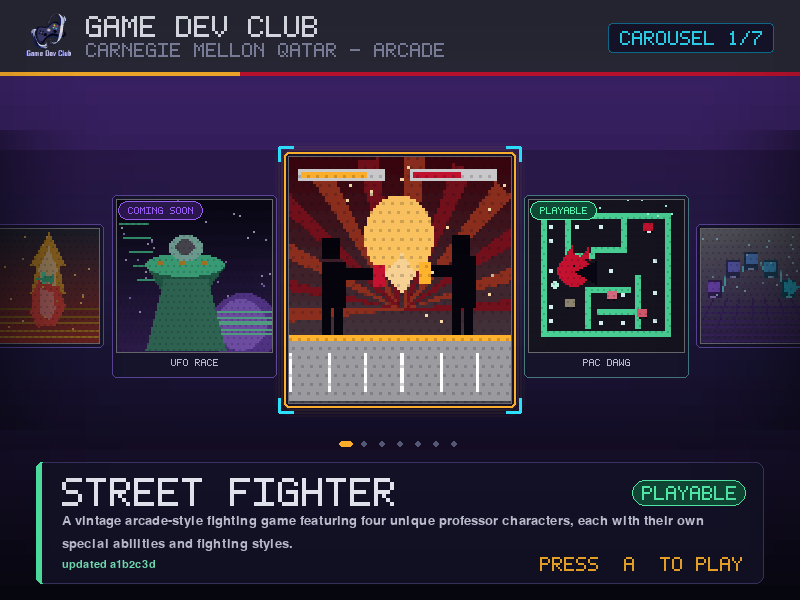
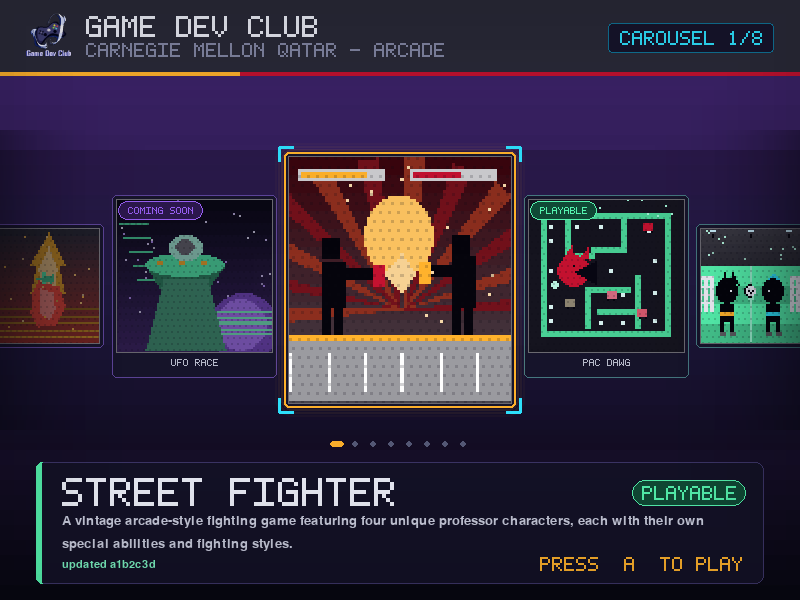
feat(games): add Head Scotter as the eighth catalogued game
Add the head-soccer game HeadScotter to data/games.json as a launchable
entry, alongside a new procedural 'pitch' card-art motif registered in
launcher/ui/art.py and launcher/manifest.py: goals at both ends, a
ball, and two dark-silhouette big-headed rivals with a single jersey
accent stripe each, so the identity reads clearly at every card size
instead of blending into the grass. Both rivals share the same planted,
two-legged stance, since an earlier kicking pose read as a detached
slab rather than a limb at the sizes these cards actually render at.
Update tests that pinned the manifest at seven games/two launchable,
extend grid/carousel/cover-flow parity tests to cover eight games,
refresh the README and regenerate the four documentation screenshots.

Changed region(s): [[0.875, 0.36, 1.0, 0.6], [0.4062, 0.72, 0.5938, 0.75], [0.9375, 0.06, 0.9688, 0.09]]

diff --git a/launcher/ui/art.py b/launcher/ui/art.py
@@ -464,6 +464,135 @@ def _motif_maze(surface: pygame.Surface, colors: tuple[Color, Color, Color], rng
     _speckle(surface, rng, mix(primary, PALETTE["bone"], 0.5), 10, ceiling=0.12)
 
 
+def _motif_pitch(surface: pygame.Surface, colors: tuple[Color, Color, Color], rng: random.Random) -> None:
+    """A head-soccer pitch: goals at both ends, a ball and two big-headed
+    rivals squaring off -- Head Scotter.
+
+    The characters are dark silhouettes (the same high-contrast trick
+    ``_motif_duel`` uses for its fighters) rather than tints of *primary* or
+    *secondary* mixed toward ``bone`` -- *primary* is already spent on the
+    grass here, so a pale mix of the other two reads as a washed-out blob
+    sitting on a background of a similar value. A near-black silhouette pops
+    against the pitch regardless of which two colours a manifest entry picks,
+    and a single accent stripe per jersey is enough to tell the two sides
+    apart.
+    """
+    primary, secondary, dark = colors
+    body = shade(dark, 0.55)
+
+    # Night-match sky with a few floodlights.
+    _sky(surface, shade(dark, 1.2), shade(dark, 0.8))
+    for light_x in (0.14, 0.5, 0.86):
+        _rect(surface, light_x - 0.03, 0.03, 0.06, 0.022, mix(PALETTE["bone"], secondary, 0.2))
+        _rect(surface, light_x - 0.006, 0.052, 0.012, 0.05, shade(dark, 0.7))
+
+    # Grass, mowed into a few bold bands -- fewer, thicker stripes than a
+    # dense set of thin ones, which is what actually reads at card scale.
+    field_top = 0.34
+    band = (1.0 - field_top) / 4.0
+    for index in range(4):
+        tone = primary if index % 2 == 0 else shade(primary, 0.82)
+        _rect(surface, 0.0, field_top + index * band, 1.0, band + 0.01, tone)
+
+    # Halfway line and centre spot.
+    line = mix(PALETTE["bone"], primary, 0.55)
+    _rect(surface, 0.485, field_top, 0.03, 1.0 - field_top, line)
+    _ellipse(surface, 0.465, 0.585, 0.07, 0.07, line)
+
+    def _goal(near_x: float, direction: int) -> None:
+        """Posts, crossbar and net opening onto the field from the edge."""
+        post = PALETTE["bone"]
+        far_x = near_x + direction * 0.12
+        _rect(surface, near_x, 0.42, 0.02, 0.32, post)
+        _rect(surface, far_x, 0.42, 0.02, 0.32, post)
+        _rect(surface, min(near_x, far_x), 0.42, 0.14, 0.02, post)
+        net = shade(post, 1.15)
+        for i in range(3):
+            nx = near_x + direction * (0.03 + i * 0.03)
+            _line(surface, (nx, 0.44), (nx, 0.71), net)
+        for j in range(4):
+            ny = 0.44 + j * 0.07
+            _line(surface, (near_x, ny), (far_x, ny), net)
+
+    _goal(0.01, direction=1)
+    _goal(0.99, direction=-1)
+
+    def _player(head_x: float, accent: Color, ears: bool) -> None:
+        """One big-headed rival: dark silhouette, single accent stripe."""
+        head_y = 0.56
+        radius = 0.115
+        facing = 1 if head_x < 0.5 else -1
+
+        if ears:
+            # Two upright terrier ears, same silhouette colour as the head
+            # so they read as part of one continuous shape.
+            _polygon(
+                surface,
+                [
+                    (head_x - radius * 0.75, head_y - radius * 0.65),
+                    (head_x - radius * 0.30, head_y - radius * 1.55),
+                    (head_x - radius * 0.05, head_y - radius * 0.75),
+                ],
+                body,
+            )
+            _polygon(
+                surface,
+                [
+                    (head_x + radius * 0.75, head_y - radius * 0.65),
+                    (head_x + radius * 0.30, head_y - radius * 1.55),
+                    (head_x + radius * 0.05, head_y - radius * 0.75),
+                ],
+                body,
+            )
+        else:
+            # A rounded mohawk band marks the rival's head instead of ears.
+            _ellipse(
+                surface,
+                head_x - radius * 0.55,
+                head_y - radius * 1.35,
+                radius * 1.1,
+                radius * 0.9,
+                accent,
+            )
+
+        _ellipse(surface, head_x - radius, head_y - radius, radius * 2, radius * 2, body)
+        eye_x = head_x + facing * radius * 0.35
+        _rect(surface, eye_x - 0.014, head_y - 0.02, 0.028, 0.028, PALETTE["bone"])
+
+        # Torso: attaches directly under the head (no gap), with one accent
+        # stripe so the two sides are distinguishable at a glance.
+        torso_top = head_y + radius - 0.01
+        _rect(surface, head_x - 0.075, torso_top, 0.15, 0.16, body)
+        _rect(surface, head_x - 0.075, torso_top + 0.06, 0.15, 0.035, accent)
+
+        # An even, planted stance -- two short legs, two boot blocks, both
+        # sides identical. A kicking pose was tried here first: an extended
+        # leg reaching toward the ball, but at the sizes these cards actually
+        # render at, its length and near-uniform thickness left it reading
+        # as a detached slab rather than a limb. The ball sitting between
+        # the two players already carries the action; the stance does not
+        # need to.
+        legs_top = torso_top + 0.16 - 0.01
+        _rect(surface, head_x - 0.075, legs_top, 0.05, 0.11, body)
+        _rect(surface, head_x + 0.025, legs_top, 0.05, 0.11, body)
+        _rect(surface, head_x - 0.08, legs_top + 0.09, 0.06, 0.04, shade(body, 1.35))
+        _rect(surface, head_x + 0.02, legs_top + 0.09, 0.06, 0.04, shade(body, 1.35))
+
+    _player(0.28, PALETTE["warm_amber"], ears=True)
+    _player(0.72, secondary, ears=False)
+
+    # The ball, lifted just off the ground between the two heads so it reads
+    # as airborne, with a dark ring so it pops against the pitch regardless
+    # of what falls behind it.
+    ball_x, ball_y = 0.5, 0.56
+    _ellipse(surface, ball_x - 0.065, ball_y - 0.065, 0.13, 0.13, shade(dark, 0.5))
+    _ellipse(surface, ball_x - 0.05, ball_y - 0.05, 0.10, 0.10, PALETTE["bone"])
+    for dx, dy in ((-0.012, -0.01), (0.014, -0.006), (0.0, 0.016)):
+        _rect(surface, ball_x + dx - 0.008, ball_y + dy - 0.008, 0.016, 0.016, shade(dark, 0.6))
+
+    _speckle(surface, rng, mix(PALETTE["bone"], primary, 0.4), 14, ceiling=field_top)
+
+
 MOTIF_RENDERERS = {
     "duel": _motif_duel,
     "relay": _motif_relay,
@@ -472,6 +601,7 @@ MOTIF_RENDERERS = {
     "ember": _motif_ember,
     "orbit": _motif_orbit,
     "maze": _motif_maze,
+    "pitch": _motif_pitch,
 }
 
 

diff --git a/tests/test_views.py b/tests/test_views.py
@@ -355,10 +355,10 @@ class GridScrollTests(unittest.TestCase):
     real grid always needed both axes anyway.
     """
 
-    COUNTS = (1, 2, 6, 7, 9, 10, 11, 12, 20)
+    COUNTS = (1, 2, 6, 7, 8, 9, 10, 11, 12, 20)
 
     def test_no_scroll_needed_when_everything_fits(self) -> None:
-        for count in (1, 2, 3, 6, 7, 9):
+        for count in (1, 2, 3, 6, 7, 8, 9):
             for index in range(count):
                 with self.subTest(count=count, index=index):
                     self.assertEqual(grid.target_scroll(index, count), 0.0)
@@ -470,7 +470,7 @@ class GridRenderingTests(HeadlessCase):
     card on screen, and never more than three rows of it visible at once.
     """
 
-    COUNTS = (1, 2, 3, 6, 7, 9, 10, 12, 20)
+    COUNTS = (1, 2, 3, 6, 7, 8, 9, 10, 12, 20)
 
     @staticmethod
     def _content_rect() -> pygame.Rect:
@@ -765,7 +765,7 @@ class CoverFlowSymmetryTests(unittest.TestCase):
     cutoff was crossed).
     """
 
-    COUNTS = (1, 2, 3, 4, 5, 6, 7, 12, 20)
+    COUNTS = (1, 2, 3, 4, 5, 6, 7, 8, 12, 20)
 
     def test_left_and_right_counts_are_equal_at_rest(self) -> None:
         """The steady-state fan -- what the visitor actually looks at -- must
@@ -839,7 +839,7 @@ class CoverFlowSymmetryTests(unittest.TestCase):
 class CarouselFadeTests(unittest.TestCase):
     """The same pop/symmetry fix, applied to Carousel's neighbours."""
 
-    COUNTS = (1, 2, 3, 4, 5, 6, 7, 12, 20)
+    COUNTS = (1, 2, 3, 4, 5, 6, 7, 8, 12, 20)
 
     def test_left_and_right_counts_are_equal_at_rest(self) -> None:
         for count in self.COUNTS:

diff --git a/tests/test_manifest.py b/tests/test_manifest.py
@@ -38,17 +38,18 @@ class ShippedManifestTests(unittest.TestCase):
     def test_shipped_manifest_loads(self) -> None:
         manifest = load_manifest(MANIFEST_FILE)
         self.assertEqual(manifest.version, SUPPORTED_MANIFEST_VERSION)
-        self.assertEqual(len(manifest), 7)
+        self.assertEqual(len(manifest), 8)
 
     def test_shipped_manifest_has_unique_ids(self) -> None:
         manifest = load_manifest(MANIFEST_FILE)
         ids = [game.id for game in manifest]
         self.assertEqual(len(ids), len(set(ids)))
 
-    def test_only_streetfighter_and_pacdawg_are_launchable(self) -> None:
+    def test_only_streetfighter_pacdawg_and_headscotter_are_launchable(self) -> None:
         manifest = load_manifest(MANIFEST_FILE)
         self.assertEqual(
-            [game.id for game in manifest.launchable], ["streetfighter", "pacdawg"]
+            [game.id for game in manifest.launchable],
+            ["streetfighter", "pacdawg", "headscotter"],
         )
 
     def test_every_game_has_distinct_card_art(self) -> None:

diff --git a/tools/generate_previews.py b/tools/generate_previews.py
@@ -96,7 +96,7 @@ PINNED_TIME_MS = 1_400
 
 #: Which card each shot selects, chosen to show a different game every time.
 #: Carousel and Cover Flow both put the selected card's detail text front and
-#: centre, so those two point at the manifest's two launchable games -- the
+#: centre, so those two point at the manifest's launchable games -- the
 #: only way a screenshot can show the "updated <commit>" detail that answers
 #: "am I running the latest build?" at the cabinet. Grid never renders that
 #: detail text at all, so its selection is free to be any other card.

diff --git a/launcher/manifest.py b/launcher/manifest.py
@@ -53,6 +53,7 @@ SUPPORTED_MOTIFS: tuple[str, ...] = (
     "ember",
     "orbit",
     "maze",
+    "pitch",
 )
 
 _ID_PATTERN = re.compile(r"^[a-z0-9][a-z0-9-]{1,38}[a-z0-9]$")

diff --git a/README.md b/README.md
@@ -405,7 +405,7 @@ The rules that follow from this:
 
 ## Screenshots
 
-Three deliberately different compositions of the same seven games, under one
+Three deliberately different compositions of the same eight games, under one
 identical header. All are rendered from the real view code by `python -m
 tools.generate_previews`, at the cabinet's exact 800×600, and a test fails if
 they drift out of date.
@@ -416,7 +416,7 @@ same size, same position. Everything that makes the three modes look
 different lives in the content area below it.
 
 They show the shipped `data/games.json` exactly as a healthy cabinet would --
-two playable games and five in development. Availability lives entirely on the
+three playable games and five in development. Availability lives entirely on the
 per-card badge; nothing here is a mock-up.
 
 `docs/screenshots/render-manifest.json` records the SHA-256 of every PNG, a
